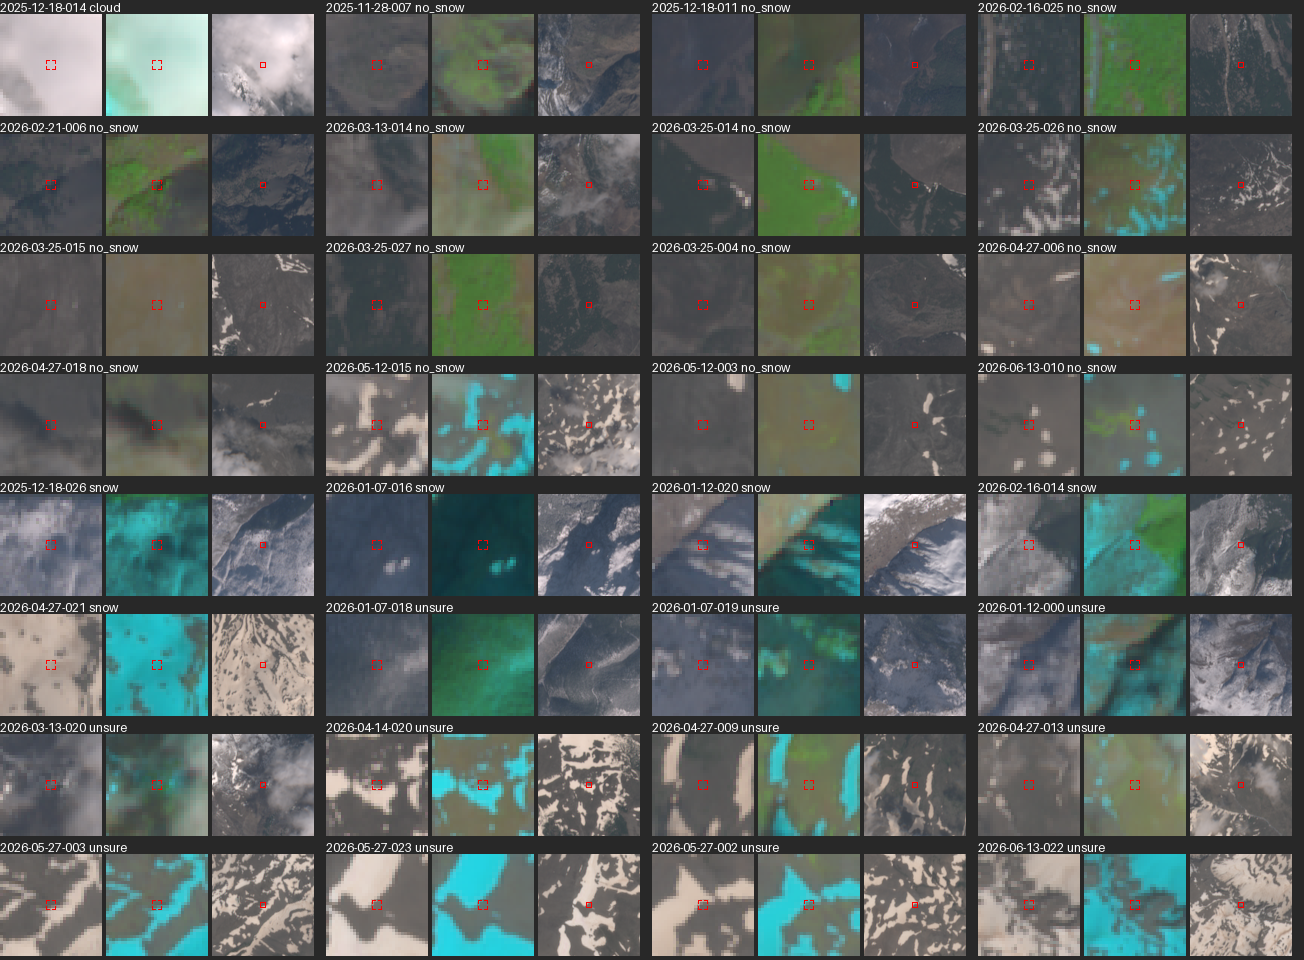
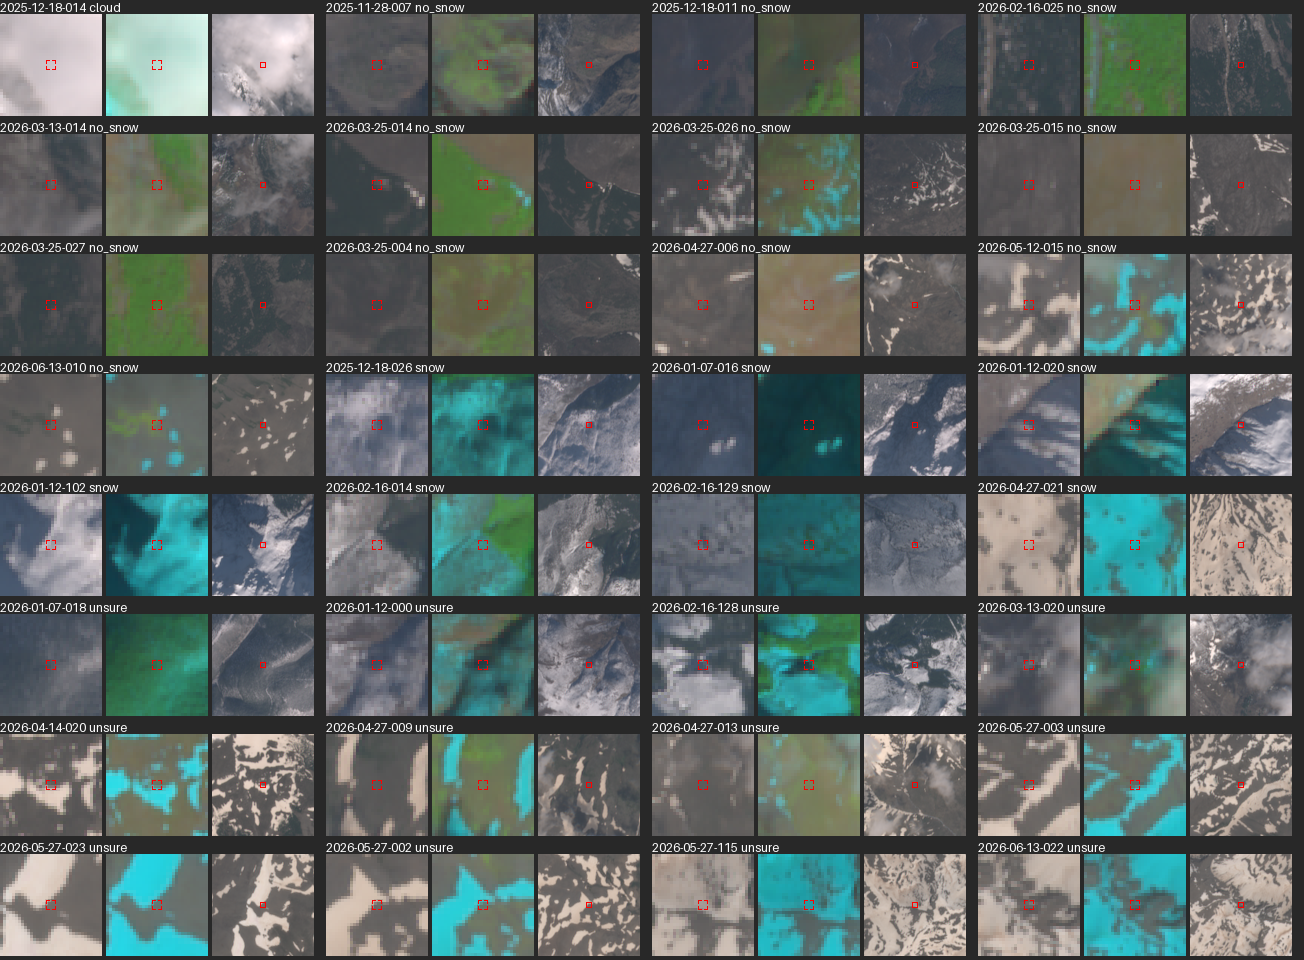
T1.0 evidence round 2: second draw pages, counts, montages of the re-frozen sample

diff --git a/t10/counts.md b/t10/counts.md
@@ -1,35 +1,51 @@
-| stratum | snow | no_snow | cloud | unsure | total |
-|---|---|---|---|---|---|
-| snowline_band | 67 | 200 | 1 | 92 | 360 |
-| terrain_shadow | 82 | 217 | 0 | 42 | 341 |
-| forest | 20 | 275 | 4 | 61 | 360 |
-| cloud_edge | 24 | 139 | 26 | 140 | 329 |
-| open_terrain | 84 | 245 | 1 | 30 | 360 |
-| **all** | 277 | 1076 | 32 | 365 | 1750 |
+Draw 1, by stratum
 
-| date | phase | snowline_m | snowline_band | terrain_shadow | forest | cloud_edge | open_terrain | total | snow | no_snow | cloud | unsure |
-|---|---|---|---|---|---|---|---|---|---|---|---|---|
-| 2025-11-03 | early season | None | 0 | 24 | 24 | 28 | 24 | 100 | 0 | 65 | 18 | 17 |
-| 2025-11-28 | early season | 2450 | 28 | 24 | 24 | 0 | 24 | 100 | 17 | 70 | 0 | 13 |
-| 2025-12-18 | storm | 1950 | 28 | 24 | 24 | 28 | 24 | 128 | 37 | 49 | 3 | 39 |
-| 2026-01-07 | storm | 1750 | 28 | 24 | 24 | 28 | 24 | 128 | 49 | 51 | 0 | 28 |
-| 2026-01-12 | mid-winter | 1950 | 28 | 24 | 24 | 0 | 24 | 100 | 37 | 48 | 0 | 15 |
-| 2026-02-16 | storm | 1900 | 28 | 24 | 24 | 28 | 24 | 128 | 33 | 49 | 2 | 44 |
-| 2026-02-21 | mid-winter | 2050 | 28 | 24 | 24 | 15 | 24 | 115 | 19 | 81 | 0 | 15 |
-| 2026-03-13 | mid-winter | 2000 | 28 | 24 | 24 | 28 | 24 | 128 | 19 | 70 | 1 | 38 |
-| 2026-03-25 | melt | 2250 | 28 | 24 | 24 | 13 | 24 | 113 | 18 | 76 | 0 | 19 |
-| 2026-04-14 | melt | 2400 | 28 | 24 | 24 | 28 | 24 | 128 | 16 | 81 | 1 | 30 |
-| 2026-04-27 | melt | 2500 | 27 | 24 | 24 | 28 | 24 | 127 | 11 | 82 | 2 | 32 |
-| 2026-05-12 | late spring | 2700 | 27 | 21 | 24 | 27 | 24 | 123 | 10 | 90 | 2 | 21 |
-| 2026-05-27 | late spring | 2850 | 27 | 16 | 24 | 24 | 24 | 115 | 9 | 93 | 0 | 13 |
-| 2026-06-13 | late spring | 3000 | 27 | 16 | 24 | 27 | 24 | 118 | 2 | 92 | 2 | 22 |
-| 2026-11-20 | regression case | None | 0 | 24 | 24 | 27 | 24 | 99 | 0 | 79 | 1 | 19 |
+| stratum | snow | no_snow | cloud | unsure | total | scored |
+|---|---|---|---|---|---|---|
+| snowline_band | 67 | 200 | 1 | 92 | 360 | 268 |
+| terrain_shadow | 82 | 217 | 0 | 42 | 341 | 299 |
+| forest | 20 | 275 | 4 | 61 | 360 | 299 |
+| cloud_edge | 24 | 139 | 26 | 140 | 329 | 189 |
+| open_terrain | 84 | 245 | 1 | 30 | 360 | 330 |
 
-Points also flagged in other strata (in_strata), labels excluding unsure:
-| flag | n | snow | no_snow | cloud |
-|---|---|---|---|---|
-| snowline_band | 360 | 79 | 280 | 1 |
-| terrain_shadow | 337 | 101 | 236 | 0 |
-| forest | 554 | 32 | 517 | 5 |
-| cloud_edge | 217 | 29 | 161 | 27 |
-| open_terrain | 330 | 84 | 245 | 1 |
+Draw 2, by stratum
+
+| stratum | snow | no_snow | cloud | unsure | total | scored |
+|---|---|---|---|---|---|---|
+| snowline_band | 13 | 18 | 0 | 9 | 40 | 31 |
+| terrain_shadow | 13 | 4 | 0 | 14 | 31 | 17 |
+| forest | 23 | 48 | 0 | 46 | 117 | 71 |
+| cloud_edge | 20 | 24 | 4 | 39 | 87 | 48 |
+| open_terrain | 26 | 6 | 0 | 8 | 40 | 32 |
+
+Both draws, by stratum
+
+| stratum | snow | no_snow | cloud | unsure | total | scored |
+|---|---|---|---|---|---|---|
+| snowline_band | 80 | 218 | 1 | 101 | 400 | 299 |
+| terrain_shadow | 95 | 221 | 0 | 56 | 372 | 316 |
+| forest | 43 | 323 | 4 | 107 | 477 | 370 |
+| cloud_edge | 44 | 163 | 30 | 179 | 416 | 237 |
+| open_terrain | 110 | 251 | 1 | 38 | 400 | 362 |
+| **all** | 372 | 1176 | 36 | 481 | 2065 | 1584 |
+
+Both draws, by date
+
+| date | snow | no_snow | cloud | unsure | total | scored |
+|---|---|---|---|---|---|---|
+| 2025-11-03 | 0 | 65 | 18 | 17 | 100 | 83 |
+| 2025-11-28 | 25 | 81 | 0 | 19 | 125 | 106 |
+| 2025-12-18 | 47 | 55 | 4 | 54 | 160 | 106 |
+| 2026-01-07 | 63 | 55 | 0 | 41 | 159 | 118 |
+| 2026-01-12 | 48 | 53 | 0 | 19 | 120 | 101 |
+| 2026-02-16 | 45 | 56 | 2 | 54 | 157 | 103 |
+| 2026-02-21 | 23 | 91 | 0 | 21 | 135 | 114 |
+| 2026-03-13 | 26 | 77 | 1 | 53 | 157 | 104 |
+| 2026-03-25 | 25 | 85 | 0 | 28 | 138 | 110 |
+| 2026-04-14 | 22 | 91 | 2 | 41 | 156 | 115 |
+| 2026-04-27 | 14 | 90 | 4 | 46 | 154 | 108 |
+| 2026-05-12 | 15 | 95 | 2 | 28 | 140 | 112 |
+| 2026-05-27 | 15 | 100 | 0 | 16 | 131 | 115 |
+| 2026-06-13 | 4 | 103 | 2 | 25 | 134 | 109 |
+| 2026-11-20 | 0 | 79 | 1 | 19 | 99 | 80 |
+

diff --git a/t10/README.md b/t10/README.md
@@ -1,7 +1,8 @@
 # T1.0 evidence
 
-- `counts.md`: labels per stratum and per date.
+- `counts.md`: labels per stratum (per draw and together) and per date; `scored` excludes unsure.
 - `stratum_*.png`: chip montage per stratum (32 random points each, seed 1010, caption = id and label). Each point: true colour 340 m (x3), SWIR false colour B11/B8/B4 340 m (x3), true colour 1 km. The labelled 20 m pixel is inside the red marks.
-- `pages/`: the 60 labelling pages exactly as labelled (shuffled order per date, captions show only the point id, no label or stratum); `page_ids.txt` lists the ids on each page in reading order (left to right, top to bottom). Usable for a blind relabel without rebuilding the L1C mosaics.
+- `pages_draw2/`: the 13 labelling pages of the second draw (315 points, same layout and blinding), with `page_ids.txt` and the raw labels in page order.
+- `pages/`: the 60 labelling pages of the first draw exactly as labelled (shuffled order per date, captions show only the point id, no label or stratum); `page_ids.txt` lists the ids on each page in reading order (left to right, top to bottom). Usable for a blind relabel without rebuilding the L1C mosaics.
 - `overviews/`: the 60 m L1C true-colour overviews with 500 m GLO-30 contours used to read each date's snowline before any point was drawn.
 - `self_check/`: the labeller's own blind relabel of a 10% subset (seed 7, 175 points), done on fresh pages without the first labels: 137 of 137 decided pairs agree. This is not the G-Method check, only a consistency check.
